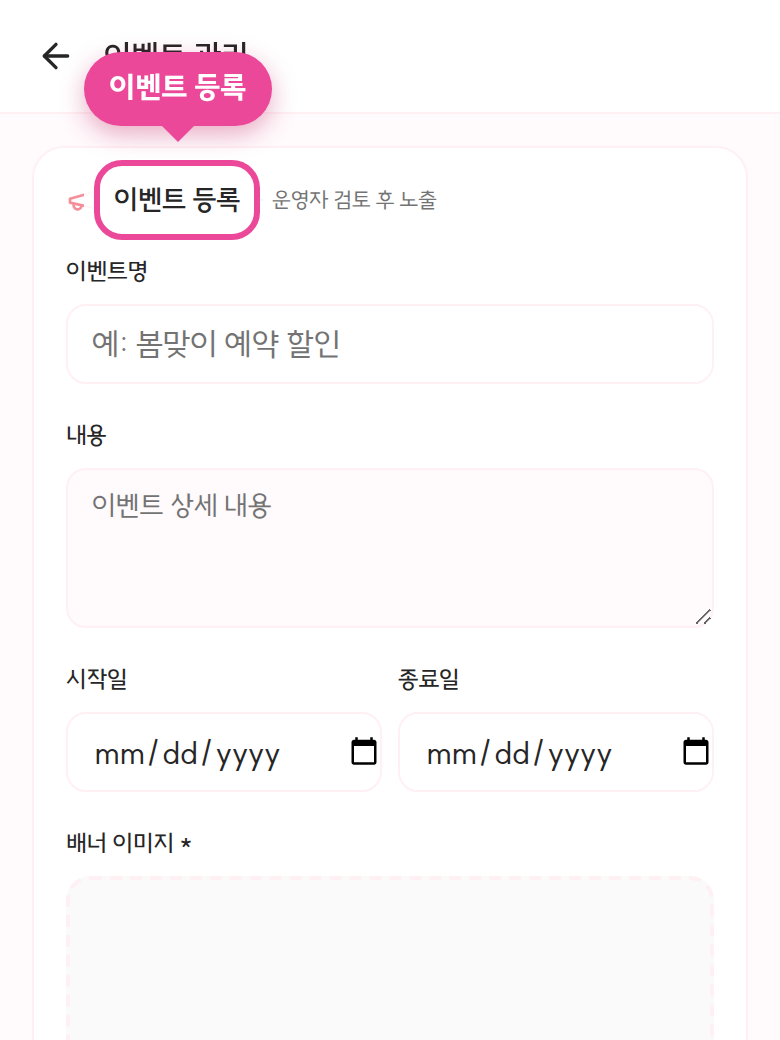
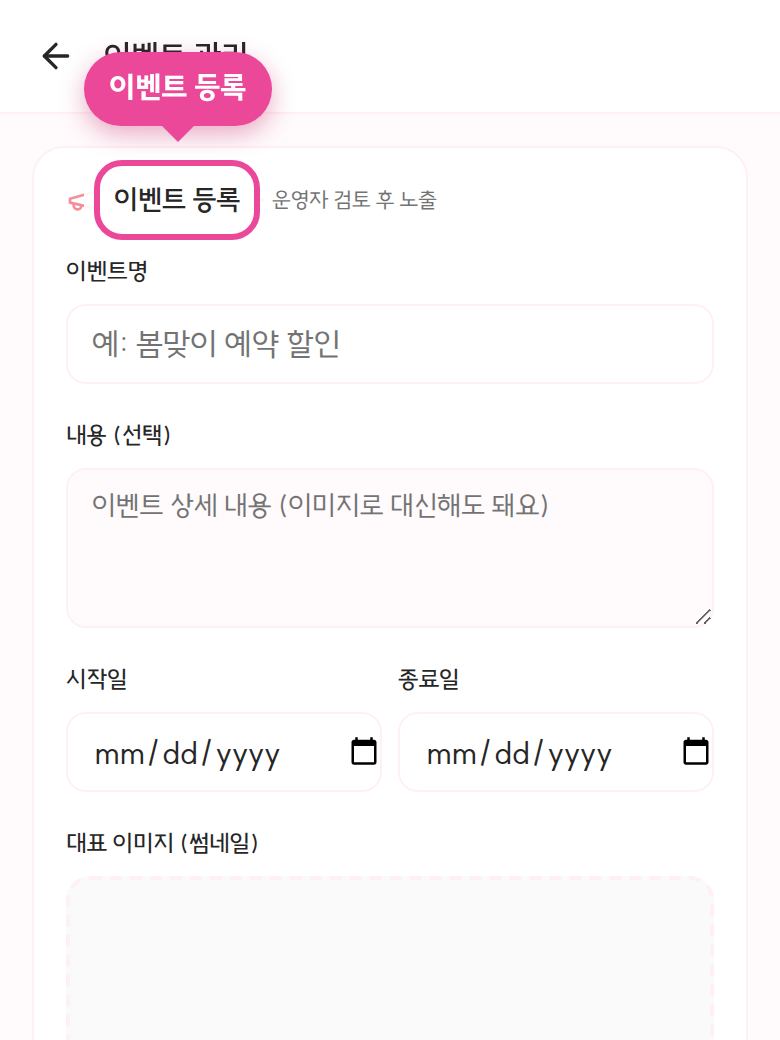
feat: 기업 가이드 스크린샷 재캡처 + 얇은 카테고리(한복·예복) 상세 보강
Task 2 — 기업 가이드 재캡처(폼 변경 반영):
- 이벤트 폼 '배너 필수' → '대표 이미지(선택)·상세 이미지(다중)'로 바뀐 화면 재캡처
  (g4-event-banner 타깃 '상세 이미지'로 수정). 상품 폼(g2-form)·이벤트 폼(g4-event-form)도 갱신.

Task 3 — 한복·예복 CategoryExtras에 기존 미표시 필드 추가(스키마 변경 없음, 값 있을 때만):
- 한복: 브랜드·가봉 횟수·수선 포함 추가.
- 예복: 형태(대여/맞춤)·수선 포함 추가.
- (메이크업은 이미 가용 필드 모두 표시 — 변경 없음.)

검증: build ✅ · lint(error 0) · g4-event-banner 새 폼 일치 확인.

Claude-Session: https://claude.ai/code/session_01WJxgiA3EsfGHTzMffZrNEs

diff --git a/src/pages/VendorDetailPage.tsx b/src/pages/VendorDetailPage.tsx
@@ -504,19 +504,26 @@ function MakeupExtras({ place }: { place: LegacyDetail }) {
 
 function HanbokExtras({ place }: { place: LegacyDetail }) {
   const has =
-    place.hanbok_types.length > 0 || place.custom_available != null ||
-    place.accessories_included != null || place.delivery_available != null;
+    place.hanbok_types.length > 0 || place.designer_brands.length > 0 ||
+    place.custom_available != null || place.accessories_included != null ||
+    place.delivery_available != null || place.fitting_count != null ||
+    place.rental_includes_alterations != null;
   if (!has) return null;
   return (
     <div className="space-y-3">
       <h3 className="font-bold text-sm">한복 정보</h3>
       <Tags label="한복 유형" items={place.hanbok_types} />
+      <Tags label="브랜드" items={place.designer_brands} />
       <div className="grid grid-cols-2 gap-2">
         {place.custom_available != null && (
           <Stat label="맞춤 제작" value={place.custom_available ? "가능" : "대여만"} />
         )}
+        {place.fitting_count != null && <Stat label="가봉 횟수" value={`${place.fitting_count}회`} />}
         {place.accessories_included != null && (
           <Stat label="액세서리" value={place.accessories_included ? "포함" : "별도"} />
+        )}
+        {place.rental_includes_alterations != null && (
+          <Stat label="수선" value={place.rental_includes_alterations ? "포함" : "별도"} />
         )}
         {place.delivery_available != null && (
           <Stat label="지방 배송" value={place.delivery_available ? "가능" : "불가"} />
@@ -530,6 +537,7 @@ function TailorExtras({ place }: { place: LegacyDetail }) {
   const has =
     place.suit_styles.length > 0 || place.designer_brands.length > 0 ||
     place.fitting_count != null || place.custom_available != null ||
+    place.rental_only != null || place.rental_includes_alterations != null ||
     place.accessories_included != null;
   if (!has) return null;
   return (
@@ -538,9 +546,15 @@ function TailorExtras({ place }: { place: LegacyDetail }) {
       <Tags label="스타일" items={place.suit_styles} />
       <Tags label="브랜드" items={place.designer_brands} />
       <div className="grid grid-cols-2 gap-2">
+        {place.rental_only != null && (
+          <Stat label="형태" value={place.rental_only ? "대여 전용" : "맞춤 가능"} />
+        )}
         {place.fitting_count != null && <Stat label="가봉 횟수" value={`${place.fitting_count}회`} />}
         {place.custom_available != null && (
           <Stat label="맞춤 제작" value={place.custom_available ? "가능" : "대여만"} />
+        )}
+        {place.rental_includes_alterations != null && (
+          <Stat label="수선" value={place.rental_includes_alterations ? "포함" : "별도"} />
         )}
         {place.accessories_included != null && (
           <Stat label="셔츠·구두·넥타이" value={place.accessories_included ? "포함" : "별도"} />